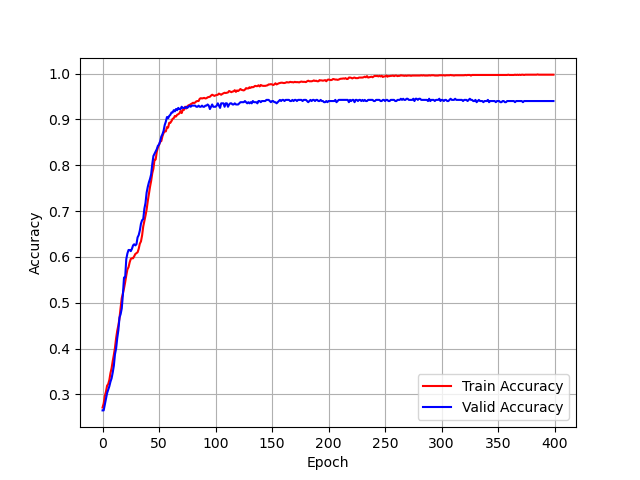
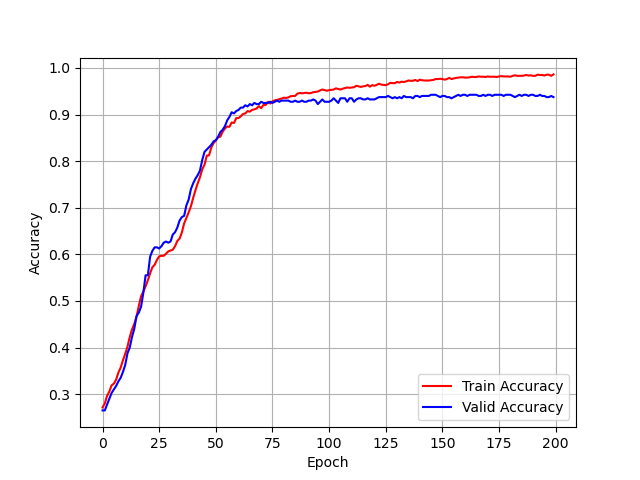
Train model with 200 epochs

diff --git a/Classification_MLP.py b/Classification_MLP.py
@@ -99,7 +99,7 @@ from torchmetrics import Accuracy
 
 model = model.to(device)
 # Train looooop
-num_epochs = 400
+num_epochs = 200
 
 loss_train_history = []
 acc_train_history = []
